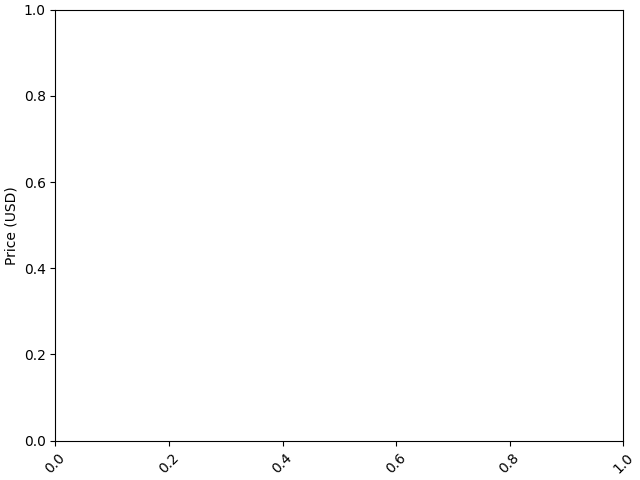
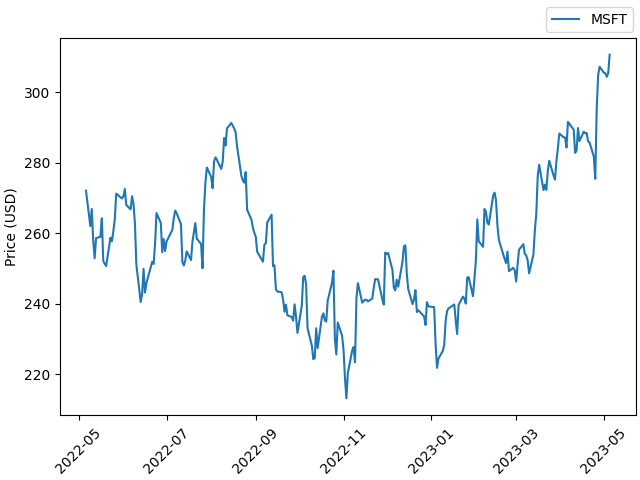
Added command line functionality to open up the stockData image. Readded user interaction that was removed during testing

diff --git a/main.cpp b/main.cpp
@@ -27,7 +27,6 @@ const string python = "python";
 
 int main() {
     char userInputContinue = 'y';           // Used for main while loop, which exits when it is 'n'
-    char valid;                             // Used for checking both bond and stock while loops
     string stockFile = "../infoOnStocks.csv";   // Stock name
     string tickerNames;                         // Company name
 
@@ -52,7 +51,6 @@ int main() {
         while (numberOfTickers == 0) {
             cout << "How many stocks are you interested in today?(1-3): ";
             numberOfTickers = MarketAPI::validatePositiveInteger();
-
             if (numberOfTickers > 3) {
                 cout << endl << "Please enter a number less the three and greater then 0";
                 numberOfTickers = 0;
@@ -68,11 +66,16 @@ int main() {
             namesOfTickers.push_back(tickerNames);
         }
 
-        /*
-         * CALL PYTHON FUNCTION HERE
-         */
+        // Command line string to call python script to scrape the web for information
+        string command = python + " ../StockInformation.py " + to_string(numberOfTickers) + " 1y ";
 
+        for(string name: namesOfTickers){
+            command.append(name + " ");
+        }
 
+        cout << command << endl;
+
+        system(command.c_str());
 
         // For each stock on file add it to a vector of stocks, then pass that vector back to main
         stocksFromFile = stockAPI.readStockFile(stockFile, stocksFromFile);
@@ -85,14 +88,10 @@ int main() {
 
         cout << "Here are the values of the stocks you requested: " << endl;
 
-//        for(Stock stock : stocksFromFile){
-//            stock.printStock(stock);
-//        }
-
         // Compare the three stocks
         stockAPI.compareInvestments(stocksFromFile);
 
-//        system ("open images/stockData.png");
+        system(R"(C:\Users\nlalt\Desktop\stockData.png)");
 
         // Ask them if they create a new stock and a new bond. If yes, loop. If not, break loop
         cout << endl << "Do you wish to look up another Investment? (y/n): ";

diff --git a/StockInformation.py b/StockInformation.py
@@ -4,6 +4,7 @@ import pandas as pd
 from matplotlib import pyplot as plt
 import matplotlib.lines as mlines
 import matplotlib as mpl
+import sys
 import yfinance as yf
 
 # Print out all the information
@@ -70,15 +71,16 @@ def createGraph(stockValues, stockNames, tickerNames):
     # Rotate the values on the x-axis by 45 degrees so that  they do not run into each other if too close together
     plt.xticks(rotation=45)
     # Save the graph (or show it: )
-    plt.show()
-    #plt.savefig('images/stockData.png')
+    #plt.show()
+    plt.savefig('/Users/nlalt/Desktop/stockData.png')
 
 
 # Write out the stock information to a CSV file. This will allow it to be used for calculations in the C++ file
 def csvWriter(outfileContents):
     header = ['name', 'initialInvestment', 'ticker', 'currentMarketValue', 'expectedGrowth', 'earningsPerShare']
+
     # Save data to a CSV file, Use this to create graphs and for Stock comparisons
-    with open('infoOnStocks.csv', 'w', encoding='UTF8', newline='') as outfile:
+    with open('../infoOnStocks.csv', 'w', encoding='UTF8', newline='') as outfile:
         # Create a CSV writer
         writer = csv.writer(outfile)
 
@@ -131,10 +133,26 @@ def main():
     # Add try/except loop for ticker validation
 
     # ticker names that are assigned through C++ program "SONY","AAPL","MSFT"
-    tickerNames = ["SONY","AAPL"]
+    tickerNames = []
+
+    # Number of tickers
+    numberOfTickers = int(sys.argv[1])
+
+    print(numberOfTickers)
 
     # Period length that is passed from C++ program
-    periodLength = "1y"
+    periodLength = sys.argv[2]
+
+    tickerNames.append(sys.argv[3])
+
+    if numberOfTickers <= 3:
+        tickerNames.append(sys.argv[4])
+        tickerNames.append(sys.argv[5])
+    elif numberOfTickers <= 2:
+        tickerNames.append(sys.argv[4])
+
+    print(tickerNames)
+
     # Assign interval length, based on time period
     intervalLength = getIntervalLength(periodLength)
 

diff --git a/marketAPI.cpp b/marketAPI.cpp
@@ -128,6 +128,8 @@ void MarketAPI::compareInvestments(vector<Stock> &stocks) {
 
         stock.setYearlyReturns((stock.getEarningsPerShare()*stock.getInitialInvestment())/stock.getCurrentMarketValue());
 
+        stock.printStock(stock);
+
         cout << "The stock of ";
         if(stock.getIntrinsicDifference() >=0){
             cout << stock.getCompanyName() << " is currently OVERVALUED on the market by ";
